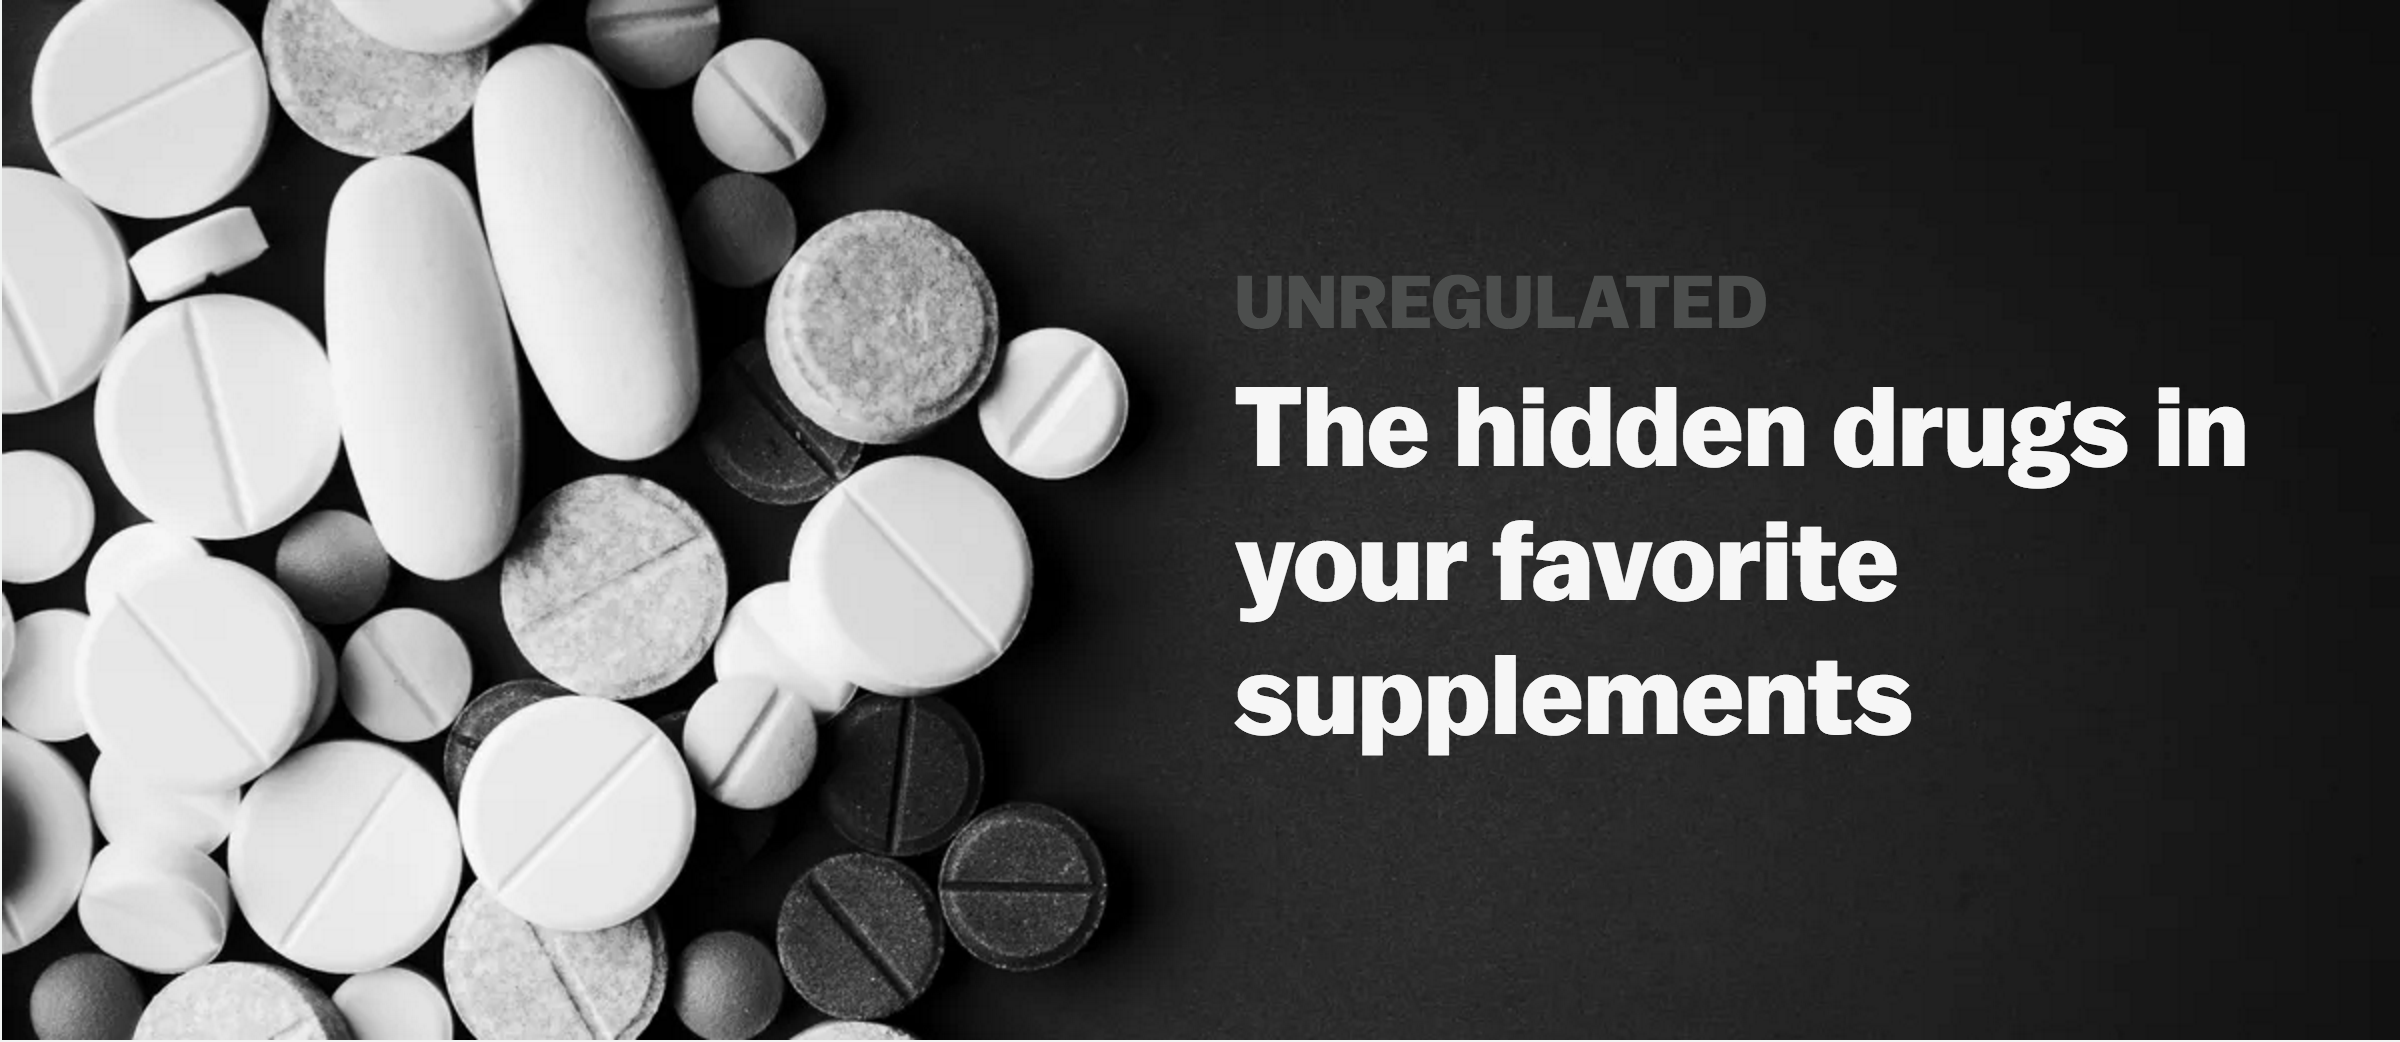
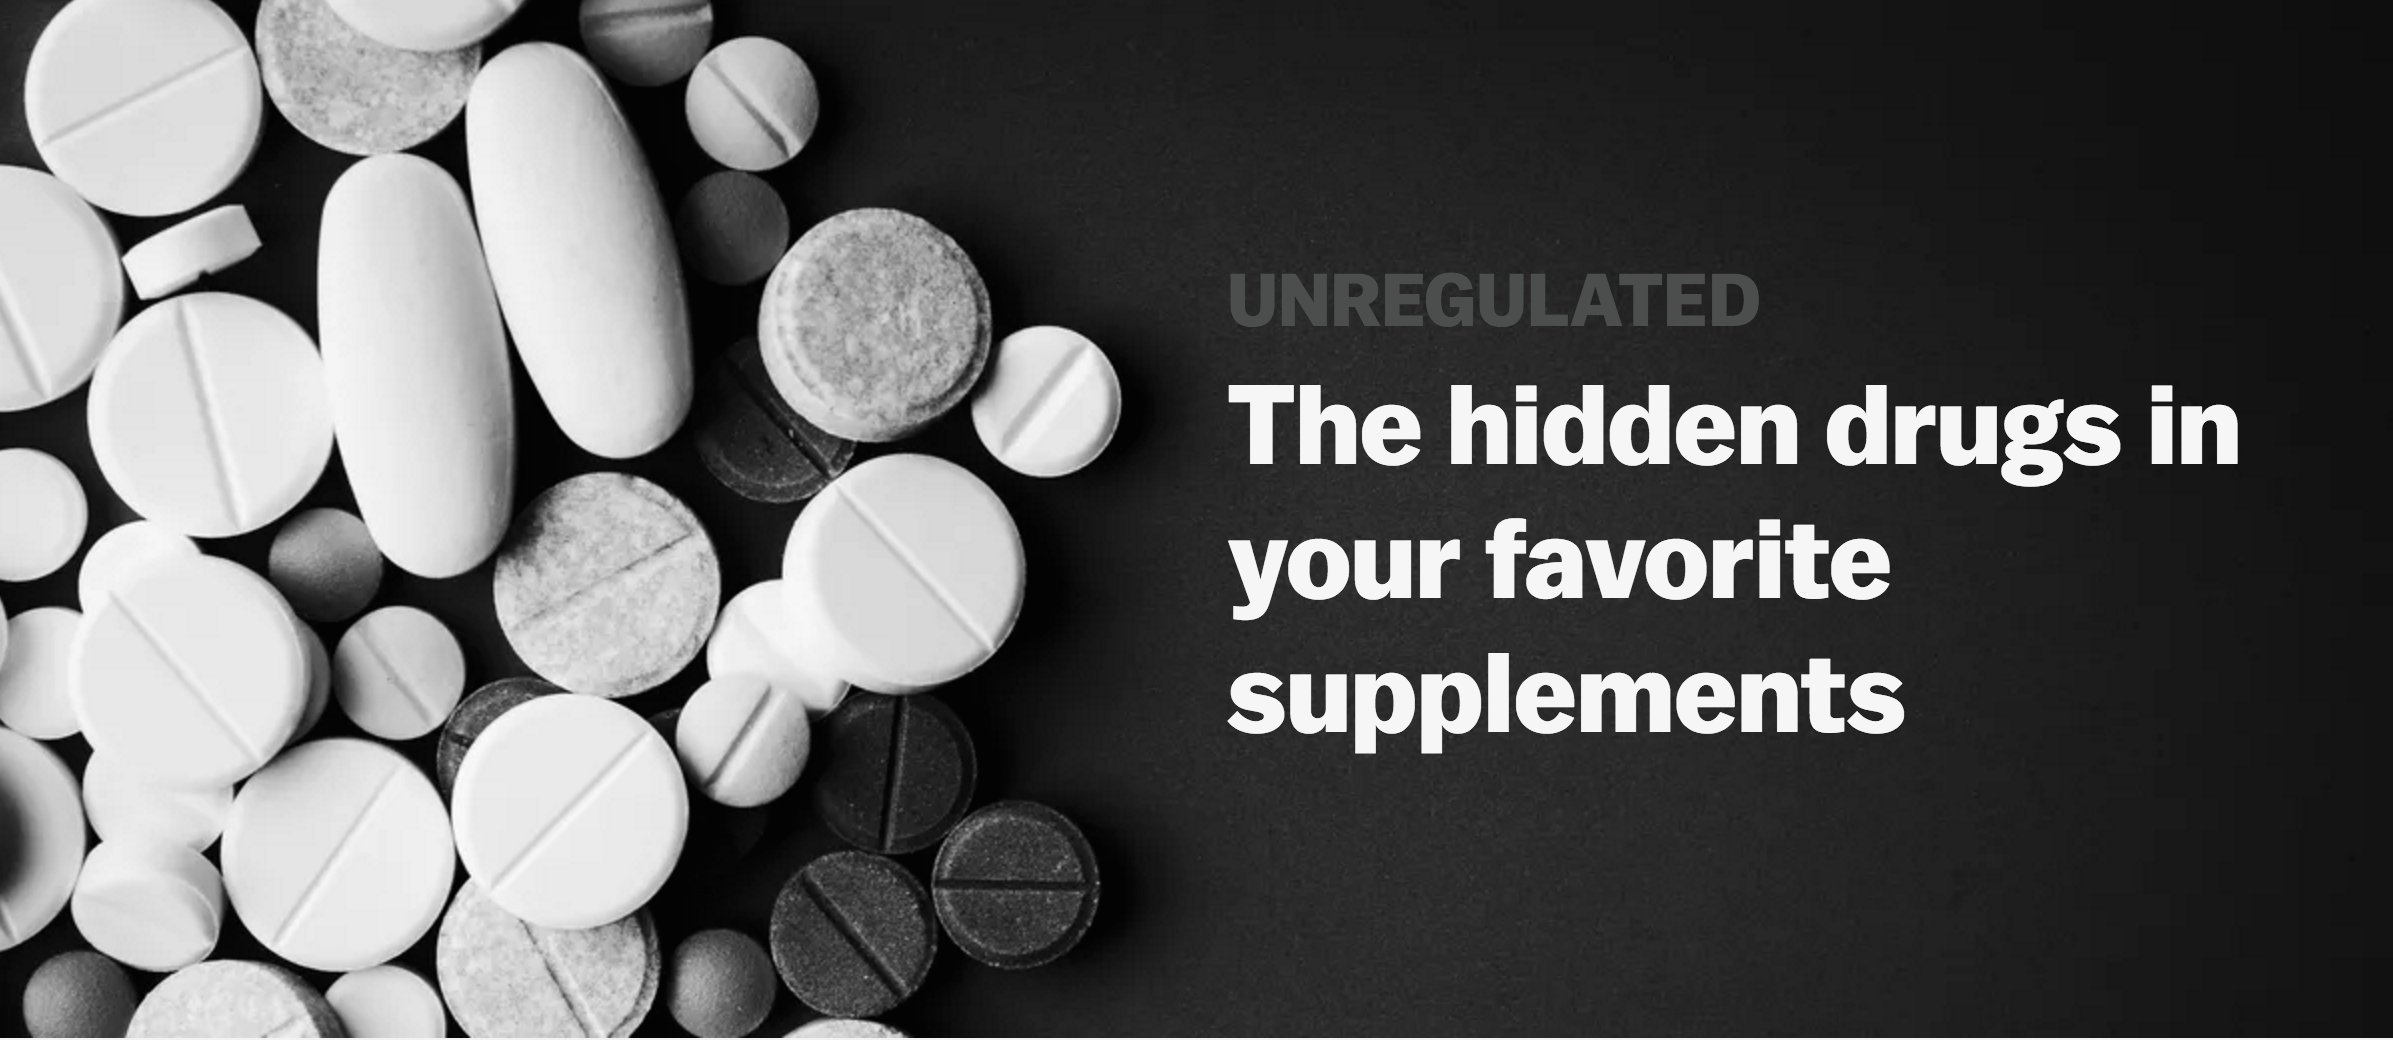
photoshopped header and 55% isotope

diff --git a/index.html b/index.html
@@ -16,8 +16,8 @@
 </head>
 <body>
     <div class="openingheader">
-        <img id="block" src="images/title.png"></img>
-        <h1> What actually treats your cold?</h1>
+        <img id="block" src="images/bannerimage.jpg"></img>
+        <p></p>
         <p id="name"> By <a href="www.twitter.com/euniceyounglee">Eunice Lee</a></p>
         <p>The process of buying over-the-counter cold medication at a local CVS can be dizzying. How can there be five types of Sudafed, five types of Mucinex, and four kinds of DayQuil and NyQuil all in one shelf? How do you know if you need DayQuil Severe Cold and Flu or just the regular kind? What makes certain cold medication drowsy? What’s the difference between cough syrup and pills? After much deliberation, you end up buying and consuming a cocktail of drugs that you hope will work. </p>
         <p>This is a problem, and even I’ve been victim to it. When I first got sick in college and didn’t have any medicine on hand, I texted my sister (who works in the pharmaceutical industry) and asked for her advice. She texted back, “Look for guaifenesin.” I thought she meant the name of a company, but she actually meant the active ingredient in some cold medications that helps runny noses. “Don’t you read the drug label?” she asked me. When I told her no, she immediately replied, “Then how do you know which medicine is right for you?” She had a point. I tended to gravitate towards brands that sounded familiar and, therefore, legitimate. I looked down at the CVS or Walmart versions of cough syrup, even though they were several dollars cheaper. Really, I was an uneducated consumer. I think a lot of people are. </p> 
@@ -36,15 +36,58 @@
     <!-- Start messing with shit from here -->
     <div class="button-group filter-button-group" div id="buttongroup">
         <div class="large-12 columns">
+            <button data-filter="*">show all</button>
             <button data-filter=".cough">cough</button>
-            <button data-filter=".nose">runny nose</button>
-            <button data-filter=".congested">congested nose</button>
+            <button data-filter=".nose">runny/congested nose</button>
             <button data-filter=".fever">fever</button>
             <button data-filter=":not(.transition)">sneezing</button>
             <button data-filter=":not(.transition)">body aches/pain</button>
+            <button data-filter=":not(.transition)">sore throat</button>
         </div>
     </div>
 
+    <div class="grid">
+      <div class="element-item transition metal " data-category="transition">
+        <div class="large-6 medium-4 small-2 columns">
+            <div class="callout panel" id="flipcard">
+                <h3 class="name">Guaifenesin</h3>
+                <p class="positives">Good for: runny noses and reducing cough congestion.</p>
+                <p class="science">Lorem ipsum dolor sit amet, consectetur adipiscing elit. Praesent venenatis quam lobortis erat sodales, a convallis elit cursus. Nullam efficitur nec dolor ut aliquam. Duis semper odio eget convallis congue. Duis luctus augue in magna vestibulum ullamcorper non et dui. Vestibulum ante ipsum primis in faucibus orci luctus et ultrices posuere cubilia Curae</p>
+                <p class="warnings">Not suited for asthma</p>
+            </div>
+        </div>
+      </div>
+      <div class="element-item transition metal " data-category="transition">
+        <div class="large-6 medium-4 small-2 columns">
+            <div class="callout panel" id="flipcard">
+                <h3 class="name">Phenylephrine</h3>
+                <p class="positives">Good for: nasal decongestant</p>
+                <p class="science">Lorem ipsum dolor sit amet, consectetur adipiscing elit. Praesent venenatis quam lobortis erat sodales, a convallis elit cursus. Nullam efficitur nec dolor ut aliquam. Duis semper odio eget convallis congue. Duis luctus augue in magna vestibulum ullamcorper non et dui. Vestibulum ante ipsum primis in faucibus orci luctus et ultrices posuere cubilia Curae</p>
+                <p class="warnings">Not suited for asthma</p>
+            </div>
+        </div>
+      </div>
+      <div class="element-item transition metal " data-category="transition">
+        <div class="large-6 medium-4 small-2 columns">
+            <div class="callout panel" id="flipcard">
+                <h3 class="name">Acetaminophen </h3>
+                <p class="body">Good for: pain reliever and fever reducer</p>
+                <p class="science">Lorem ipsum dolor sit amet, consectetur adipiscing elit. Praesent venenatis quam lobortis erat sodales, a convallis elit cursus. Nullam efficitur nec dolor ut aliquam. Duis semper odio eget convallis congue. Duis luctus augue in magna vestibulum ullamcorper non et dui. Vestibulum ante ipsum primis in faucibus orci luctus et ultrices posuere cubilia Curae</p>
+                <p class="warnings">Not suited for asthma</p>
+            </div>
+        </div>
+      </div>
+      <div class="element-item transition metal " data-category="transition">
+        <div class="large-6 medium-4 small-2 columns">
+            <div class="callout panel" id="flipcard">
+                <h3 class="name">Dextromethorphan HBr</h3>
+                <p class="mouth">Good for: Cough suppressant</p>
+                <p class="science">Lorem ipsum dolor sit amet, consectetur adipiscing elit. Praesent venenatis quam lobortis erat sodales, a convallis elit cursus. Nullam efficitur nec dolor ut aliquam. Duis semper odio eget convallis congue. Duis luctus augue in magna vestibulum ullamcorper non et dui. Vestibulum ante ipsum primis in faucibus orci luctus et ultrices posuere cubilia Curae</p>
+                <p class="warnings">Not suited for asthma</p>
+            </div>
+        </div>
+      </div>
+    </div>
 
    <!--  <div class="grid">
         <div class="element-item transition metal">...</div>
@@ -55,11 +98,6 @@
         <div class="element-item halogen nonmetal">...</div>
         <div class="element-item alkaline-earth metal">...</div>
     </div> -->
-
-
-
-
-
 
 
     <!-- <div class="all-tools">
@@ -122,7 +160,7 @@
     <script type="text/javascript" src="js/original.js"></script>
 
 <!-- Footer -->
- <footer>
+ <!-- <footer>
     <div class="about-knightlab">
       <div id="knightlab-logo-column">
         <a href="http://knightlab.northwestern.edu" target="_blank"><img src="http://knightlab.northwestern.edu/wp-content/uploads/2014/12/logo_stacked.png" class="img-responsive"></a>
@@ -156,8 +194,8 @@
         </address>
         <span class="copyright">| Copyright 2015, Northwestern University</span>
       </div>
-    </div><!-- end .about-knightlab -->
-  </footer>
+    </div>
+  </footer> -->
 
 </body>
 </html>

diff --git a/css/style.css b/css/style.css
@@ -5,9 +5,106 @@ div.grid-item--width2 { width: 50%; }
 
 #buttongroup {
 	margin-left: 14%;
-	font-family: Salvo;
+	margin-top: -80px;
 }
 
+div.grid {
+	margin-left: 14%;
+	margin-right: 14%;
+}
+
+#flipcard p {
+	font-size: 14px;
+}
+
+/* clear fix */
+.grid:after {
+  content: '';
+  display: block;
+  clear: both;
+}
+
+/*.element-item {
+  position: relative;
+  float: left;
+  width: 100px;
+  height: 100px;
+  margin: 5px;
+  padding: 10px;
+  background: #888;
+  color: #262524;
+}
+
+.element-item > * {
+  margin: 0;
+  padding: 0;
+}
+
+.element-item .name {
+  position: absolute;
+
+  left: 10px;
+  top: 60px;
+  text-transform: none;
+  letter-spacing: 0;
+  font-size: 12px;
+  font-weight: normal;
+}
+
+.element-item .symbol {
+  position: absolute;
+  left: 10px;
+  top: 0px;
+  font-size: 42px;
+  font-weight: bold;
+  color: white;
+}
+
+.element-item .number {
+  position: absolute;
+  right: 8px;
+  top: 5px;
+}
+
+.element-item .weight {
+  position: absolute;
+  left: 10px;
+  top: 76px;
+  font-size: 12px;
+}
+
+.element-item.alkali          { background: #F00; background: hsl(   0, 100%, 50%); }
+.element-item.alkaline-earth  { background: #F80; background: hsl(  36, 100%, 50%); }
+.element-item.lanthanoid      { background: #FF0; background: hsl(  72, 100%, 50%); }
+.element-item.actinoid        { background: #0F0; background: hsl( 108, 100%, 50%); }
+.element-item.transition      { background: #0F8; background: hsl( 144, 100%, 50%); }
+.element-item.post-transition { background: #0FF; background: hsl( 180, 100%, 50%); }
+.element-item.metalloid       { background: #08F; background: hsl( 216, 100%, 50%); }
+.element-item.diatomic        { background: #00F; background: hsl( 252, 100%, 50%); }
+.element-item.halogen         { background: #F0F; background: hsl( 288, 100%, 50%); }
+.element-item.noble-gas       { background: #F08; background: hsl( 324, 100%, 50%); }*/
+
+
+/*.button {
+  display: inline-block;
+  padding: 10px 18px;
+  margin-bottom: 10px;
+  background: #EEE;
+  border: none;
+  border-radius: 7px;
+  background-image: linear-gradient( to bottom, hsla(0, 0%, 0%, 0), hsla(0, 0%, 0%, 0.2) );
+  color: #222;
+  font-family: sans-serif;
+  font-size: 16px;
+  text-shadow: 0 1px white;
+  cursor: pointer;
+}
+
+.button:hover {
+  background-color: #8CF;
+  text-shadow: 0 1px hsla(0, 0%, 100%, 0.5);
+  color: #222;
+}*/
 
 
 
@@ -60,8 +157,8 @@ div.openingheader p{
 	width: 60%;
 	min-height: 100%;
 	margin-left: 20%;
-	font-family: Georgia;
-	font-size: 16px;
+	font-family: Lato;
+	font-size: 18px;
 }
 
 /*For the opening banner img*/

diff --git a/js/original.js b/js/original.js
@@ -1,31 +1,2 @@
 // $("#flipcard").flip();
 
-$('.grid').isotope({
-  // options
-  itemSelector: '.grid-item',
-  layoutMode: 'fitRows'
-});
-
-// filter .metal items
-$grid.isotope({ filter: '.metal' });
-
-// filter .alkali OR .alkaline-earth items
-$grid.isotope({ filter: '.alkali, .alkaline-earth' });
-
-// filter .metal AND .transition items
-$grid.isotope({ filter: '.metal.transition' });
-
-// show all items
-$grid.isotope({ filter: '*' });
-
-
-// init Isotope
-var $grid = $('.grid').isotope({
-  // options
-});
-
-// filter items on button click
-$('.filter-button-group').on( 'click', 'button', function() {
-  var filterValue = $(this).attr('data-filter');
-  $container.isotope({ filter: filterValue });
-});
